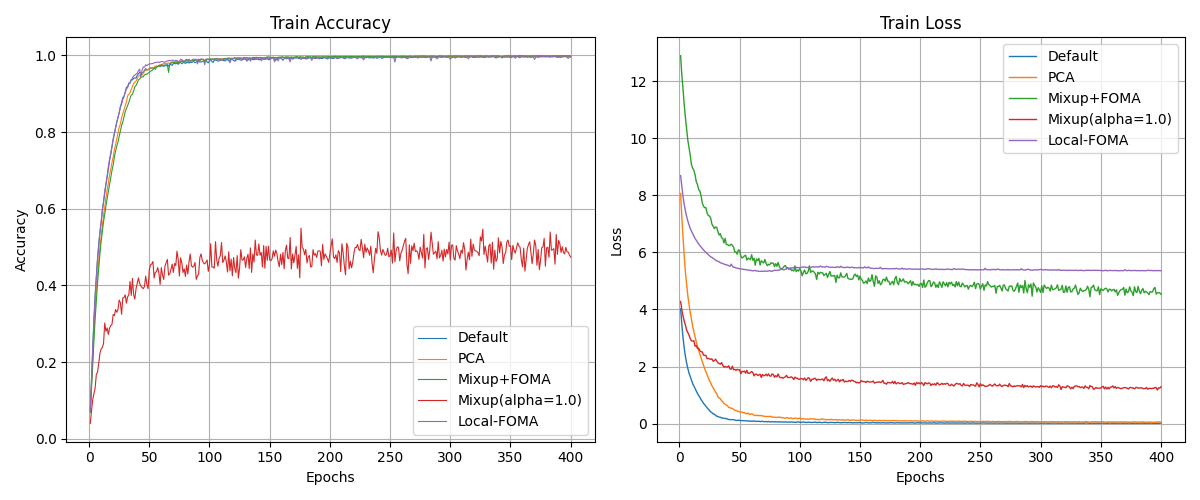
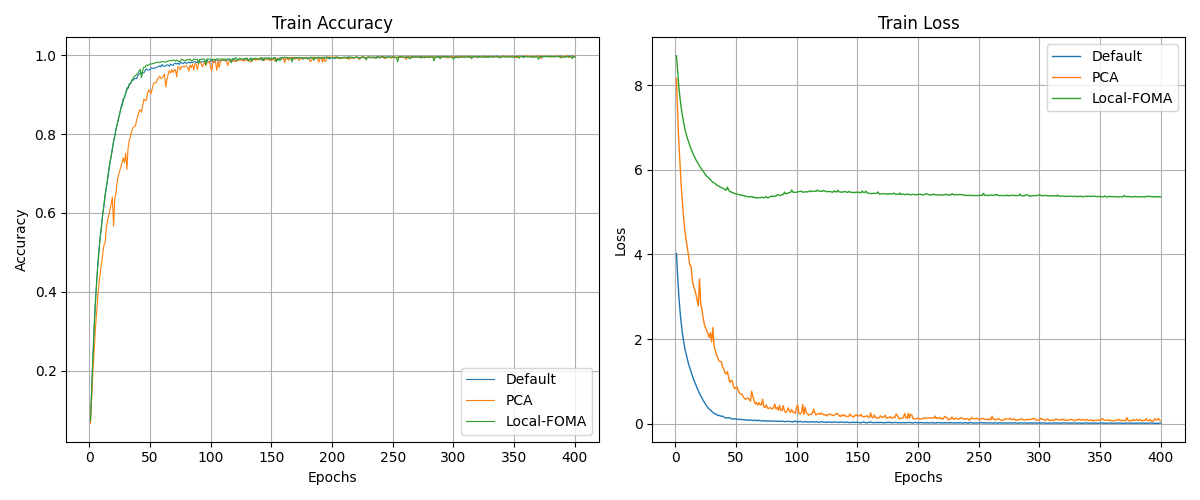
progress report

diff --git a/result.py b/result.py
@@ -20,14 +20,14 @@ def main():
     augmentations = [
         # "Original",
         "Default",
-        "PCA",
-        # "SVD",
+        # "PCA",
+        "SVD",
 
         # "Conf-Mixup",
 
-        "Mixup+FOMA",
+        # "Mixup+FOMA",
         # "Mixup(alpha=0.5)",
-        "Mixup",
+        # "Mixup",
         # "Mixup(alpha=2.0)",
         # "Mixup(alpha=5.0)",
         # "Manifold-Mixup(alpha=0.5)",
@@ -110,6 +110,8 @@ def plot_comparison_graph_train(model_type, augmentations, data_type, epoch, ite
             augment = "Mixup(alpha=1.0)"
         elif augment == "Manifold-Mixup":
             augment = "Manifold-Mixup(alpha=2.0)"
+        elif augment == "SVD":
+            augment = "PCA"
         plt.plot(epochs, train_acc, linestyle='solid', linewidth=0.8, label=f'{augment}')
         
     plt.title('Train Accuracy')
@@ -139,6 +141,8 @@ def plot_comparison_graph_train(model_type, augmentations, data_type, epoch, ite
             augment = "Mixup(alpha=1.0)"
         elif augment == "Manifold-Mixup":
             augment = "Manifold-Mixup(alpha=2.0)"
+        elif augment == "SVD":
+            augment = "PCA"
         plt.plot(epochs, train_loss, linestyle='solid', linewidth=1, label=f'{augment}')
         
     plt.title('Train Loss')
@@ -175,6 +179,8 @@ def plot_comparison_graph(model_type, augmentations, data_type, epoch, iteration
             augment = "Mixup(alpha=1.0)"
         elif augment == "Manifold-Mixup":
             augment = "Manifold-Mixup(alpha=2.0)"
+        elif augment == "SVD":
+            augment = "PCA"
         plt.plot(epochs, val_acc, linestyle='solid', linewidth=0.8, label=f'{augment}')
         
     plt.title('Validation Accuracy')
@@ -204,6 +210,8 @@ def plot_comparison_graph(model_type, augmentations, data_type, epoch, iteration
             augment = "Mixup(alpha=1.0)"
         elif augment == "Manifold-Mixup":
             augment = "Manifold-Mixup(alpha=2.0)"
+        elif augment == "SVD":
+            augment = "PCA"
         plt.plot(epochs, val_loss, linestyle='solid', linewidth=1, label=f'{augment}')
         
     plt.title('Validation Loss')
